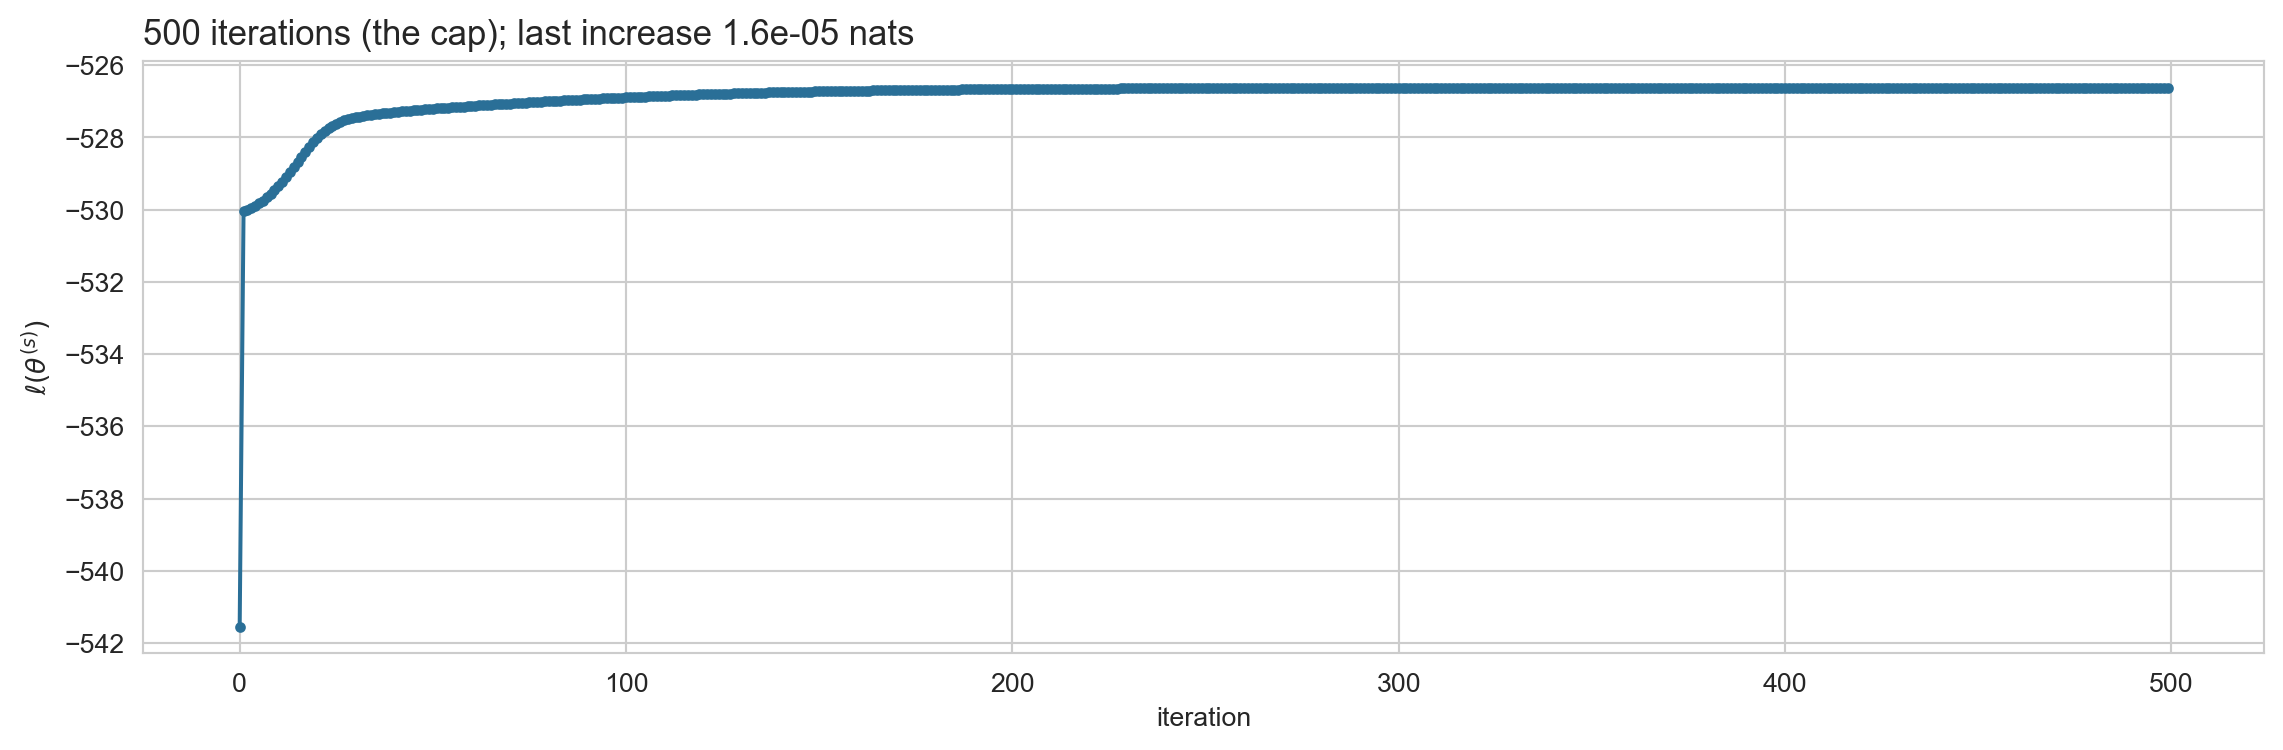
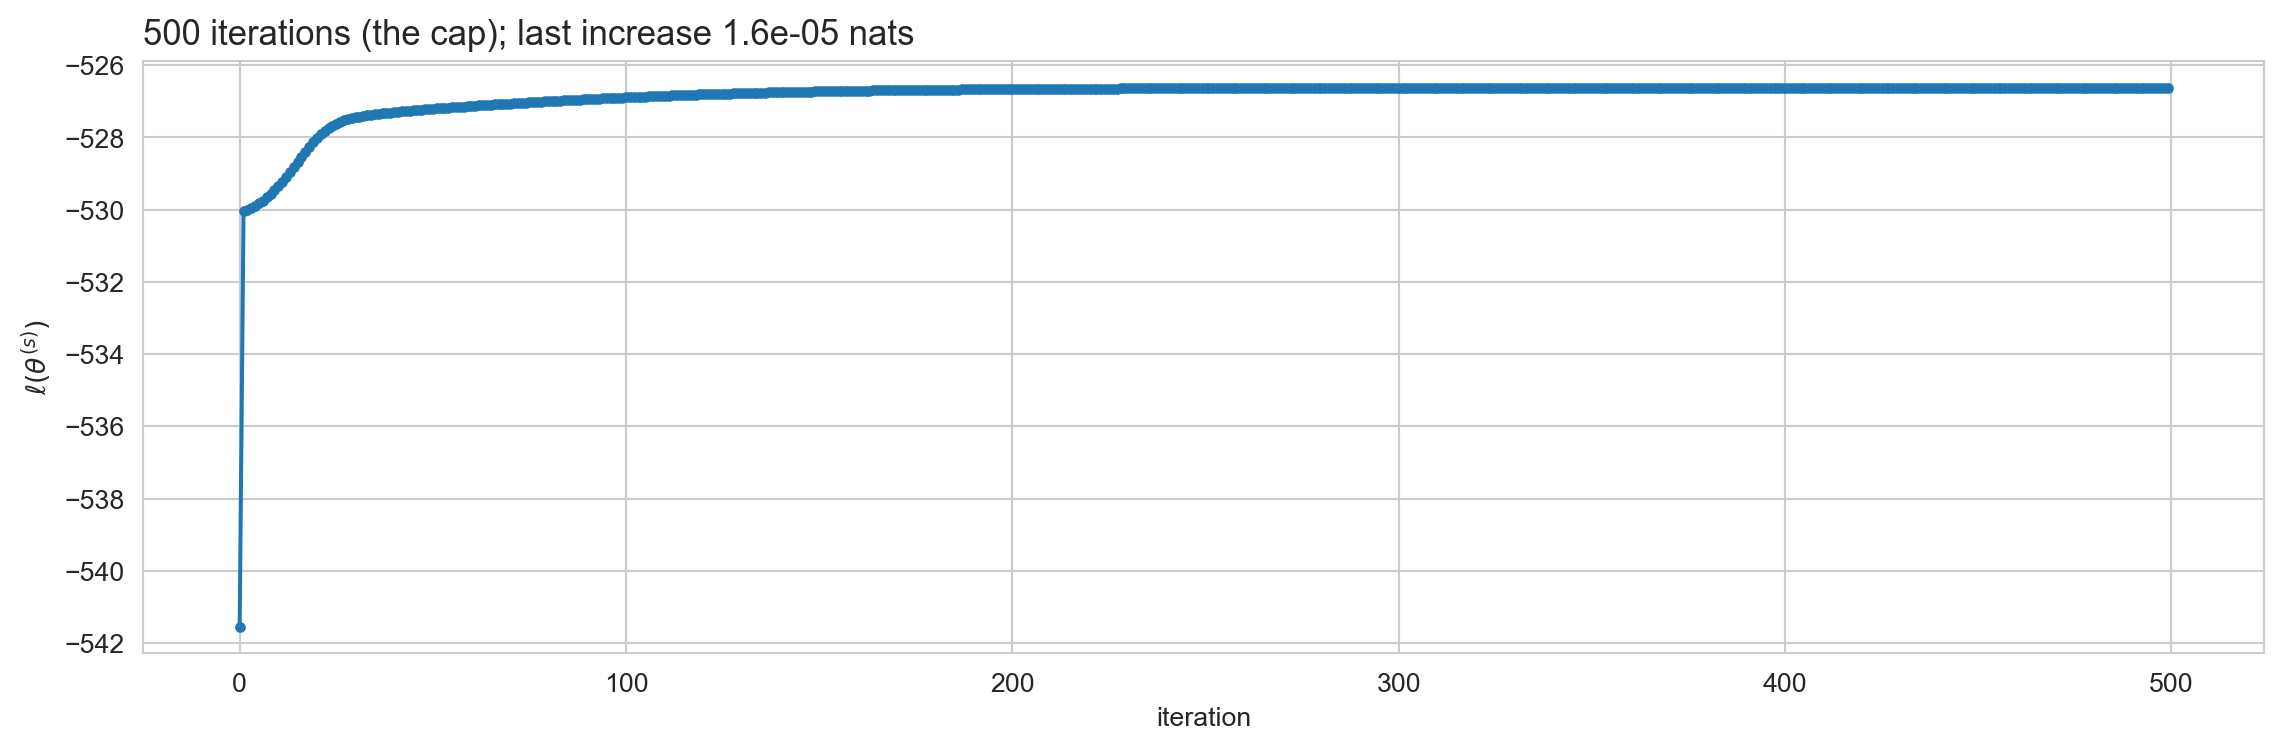
Revised week 4 part 2 slides.

Changed region(s): [[0.1244, 0.092, 0.9641, 0.2453], [0.0933, 0.2453, 0.1244, 0.3067]]

diff --git a/teaching/pml_fall26/4_baum_welch.html b/teaching/pml_fall26/4_baum_welch.html
@@ -354,7 +354,7 @@ p(y_{1:T}, z_t = k) = \underbrace{p(y_{1:t}, z_t=k)}_{\alpha_t(k)} \cdot \underb
 </section>
 <section id="mondays-code-which-you-will-need" class="slide level2">
 <h2>Monday’s code, which you will need</h2>
-<div id="f6dab100" class="cell" data-execution_count="2">
+<div id="95a9a279" class="cell" data-execution_count="2">
 <div class="sourceCode cell-code" id="cb1"><pre class="sourceCode numberSource python number-lines code-with-copy"><code class="sourceCode python"><span id="cb1-1"><a href=""></a><span class="kw">def</span> forward(logB, pi, A):</span>
 <span id="cb1-2"><a href=""></a>    T, K <span class="op">=</span> logB.shape</span>
 <span id="cb1-3"><a href=""></a>    B <span class="op">=</span> np.exp(logB)</span>
@@ -393,7 +393,7 @@ p(y_{1:T}, z_t = k) = \underbrace{p(y_{1:t}, z_t=k)}_{\alpha_t(k)} \cdot \underb
 <li><span class="math inline">\(a_{LL}\)</span>: the probability that the dealer keeps the loaded die.</li>
 </ul>
 </div>
-<div id="f400be67" class="cell" data-execution_count="3">
+<div id="ec788758" class="cell" data-execution_count="3">
 <div class="sourceCode cell-code" id="cb2"><pre class="sourceCode numberSource python number-lines code-with-copy"><code class="sourceCode python"><span id="cb2-1"><a href=""></a><span class="kw">def</span> make_casino(p_six, stay_fair, stay_loaded):</span>
 <span id="cb2-2"><a href=""></a>    pi <span class="op">=</span> np.array([<span class="fl">0.5</span>, <span class="fl">0.5</span>])</span>
 <span id="cb2-3"><a href=""></a>    A <span class="op">=</span> np.array([[stay_fair, <span class="dv">1</span> <span class="op">-</span> stay_fair],</span>
@@ -419,7 +419,7 @@ B =
 </section>
 <section id="simulate-it" class="slide level2">
 <h2>Simulate it</h2>
-<div id="cb63facd" class="cell" data-execution_count="4">
+<div id="7961d9fb" class="cell" data-execution_count="4">
 <div class="sourceCode cell-code" id="cb4"><pre class="sourceCode numberSource python number-lines code-with-copy"><code class="sourceCode python"><span id="cb4-1"><a href=""></a><span class="kw">def</span> simulate_casino(T, pi, A, B, seed):</span>
 <span id="cb4-2"><a href=""></a>    rng <span class="op">=</span> np.random.default_rng(seed)</span>
 <span id="cb4-3"><a href=""></a>    z, y <span class="op">=</span> np.zeros(T, dtype<span class="op">=</span><span class="bu">int</span>), np.zeros(T, dtype<span class="op">=</span><span class="bu">int</span>)</span>
@@ -451,7 +451,7 @@ die   : L...........LL........................................LLLLLLLLL...LLLL
 <li>Wrap it in a function of <code>(y, pi, A, B)</code>. You will call it many times today.</li>
 </ul>
 </div>
-<div id="11b2c054" class="cell" data-execution_count="5">
+<div id="49f12192" class="cell" data-execution_count="5">
 <div class="cell-output cell-output-stdout">
 <pre><code>my casino, my rolls :  -530.56</code></pre>
 </div>
@@ -468,7 +468,7 @@ die   : L...........LL........................................LLLLLLLLL...LLLL
 <li>Two routes. Write down the closed form, or notice that this is a one-state HMM and feed <code>forward</code> a <span class="math inline">\(1 \times 1\)</span> transition matrix. They must agree.</li>
 </ul>
 </div>
-<div id="5b593a49" class="cell" data-execution_count="6">
+<div id="dae25c81" class="cell" data-execution_count="6">
 <div class="cell-output cell-output-stdout">
 <pre><code>one fair die :  -537.53
 my casino    :  -530.56
@@ -481,7 +481,7 @@ difference   :     6.96 nats, or 0.023 per roll</code></pre>
 </section>
 <section id="how-well-did-yours-hide" class="slide level2">
 <h2>How well did yours hide?</h2>
-<div id="5c4282a7" class="cell" data-execution_count="7">
+<div id="67dd2ad2" class="cell" data-execution_count="7">
 <details class="code-fold">
 <summary>Code</summary>
 <div class="sourceCode cell-code" id="cb8"><pre class="sourceCode numberSource python number-lines code-with-copy"><code class="sourceCode python"><span id="cb8-1"><a href=""></a>rows <span class="op">=</span> []</span>
@@ -755,7 +755,7 @@ B_{km} = \frac{\sum_t \gamma_t(k) \, 1[y_t = m]}{\bar{n}_k}
 </section>
 <section id="the-code-you-are-given" class="slide level2">
 <h2>The code you are given</h2>
-<div id="da40ecdc" class="cell" data-execution_count="8">
+<div id="061f2904" class="cell" data-execution_count="8">
 <div class="sourceCode cell-code" id="cb9"><pre class="sourceCode numberSource python number-lines code-with-copy"><code class="sourceCode python"><span id="cb9-1"><a href=""></a><span class="kw">class</span> Categorical:</span>
 <span id="cb9-2"><a href=""></a>    <span class="co">"""y_t | z_t = k ~ Categorical(B[k, :]) on the symbols 1, ..., M."""</span></span>
 <span id="cb9-3"><a href=""></a>    <span class="kw">def</span> <span class="fu">__init__</span>(<span class="va">self</span>, M):</span>
@@ -795,19 +795,22 @@ B_{km} = \frac{\sum_t \gamma_t(k) \, 1[y_t = m]}{\bar{n}_k}
 </section>
 <section id="watch-one-run" class="slide level2">
 <h2>Watch one run</h2>
-<div id="f2adf0fc" class="cell" data-execution_count="9">
+<div id="6b02674d" class="cell" data-execution_count="9">
 <details class="code-fold">
 <summary>Code</summary>
-<div class="sourceCode cell-code" id="cb10"><pre class="sourceCode numberSource python number-lines code-with-copy"><code class="sourceCode python"><span id="cb10-1"><a href=""></a>fit0 <span class="op">=</span> baum_welch(y_cas, <span class="dv">2</span>, Categorical(<span class="dv">6</span>), seed<span class="op">=</span><span class="dv">0</span>)</span>
-<span id="cb10-2"><a href=""></a></span>
-<span id="cb10-3"><a href=""></a>fig, ax <span class="op">=</span> plt.subplots(figsize<span class="op">=</span>(<span class="dv">12</span>, <span class="dv">4</span>))</span>
-<span id="cb10-4"><a href=""></a>ax.plot(fit0[<span class="st">"trace"</span>], marker<span class="op">=</span><span class="st">"o"</span>, ms<span class="op">=</span><span class="dv">3</span>, color<span class="op">=</span>M1)</span>
-<span id="cb10-5"><a href=""></a>ax.set_xlabel(<span class="st">"iteration"</span>)<span class="op">;</span> ax.set_ylabel(<span class="vs">r"$\ell(\theta^{(s)})$"</span>)</span>
-<span id="cb10-6"><a href=""></a>ax.set_title(<span class="ss">f"</span><span class="sc">{</span>fit0[<span class="st">'iters'</span>]<span class="sc">}</span><span class="ss"> iterations (the cap); last increase </span><span class="sc">{</span>np<span class="sc">.</span>diff(fit0[<span class="st">'trace'</span>])[<span class="op">-</span><span class="dv">1</span>]<span class="sc">:.1e}</span><span class="ss"> nats"</span>, loc<span class="op">=</span><span class="st">"left"</span>, fontsize<span class="op">=</span><span class="dv">13</span>)</span>
-<span id="cb10-7"><a href=""></a>plt.tight_layout()<span class="op">;</span> plt.show()</span>
-<span id="cb10-8"><a href=""></a></span>
-<span id="cb10-9"><a href=""></a><span class="bu">print</span>(<span class="ss">f"monotone: </span><span class="sc">{</span>np<span class="sc">.</span><span class="bu">all</span>(np.diff(fit0[<span class="st">'trace'</span>]) <span class="op">&gt;=</span> <span class="op">-</span><span class="fl">1e-9</span>)<span class="sc">}</span><span class="ss">"</span>)</span>
-<span id="cb10-10"><a href=""></a><span class="bu">print</span>(<span class="ss">f"final log likelihood </span><span class="sc">{</span>fit0[<span class="st">'ll'</span>]<span class="sc">:.2f}</span><span class="ss">, versus </span><span class="sc">{</span>forward_backward(np.log(B_cas[:, y_cas<span class="op">-</span><span class="dv">1</span>].T), pi_cas, A_cas)[<span class="dv">2</span>]<span class="sc">:.2f}</span><span class="ss"> at the true parameters"</span>)</span></code><button title="Copy to Clipboard" class="code-copy-button"><i class="bi"></i></button></pre></div>
+<div class="sourceCode cell-code" id="cb10"><pre class="sourceCode numberSource python number-lines code-with-copy"><code class="sourceCode python"><span id="cb10-1"><a href=""></a><span class="co"># Uncomment below to import the plotting library.</span></span>
+<span id="cb10-2"><a href=""></a><span class="co">#import matplotlib.pyplot as plt</span></span>
+<span id="cb10-3"><a href=""></a></span>
+<span id="cb10-4"><a href=""></a>fit0 <span class="op">=</span> baum_welch(y_cas, <span class="dv">2</span>, Categorical(<span class="dv">6</span>), seed<span class="op">=</span><span class="dv">0</span>)</span>
+<span id="cb10-5"><a href=""></a></span>
+<span id="cb10-6"><a href=""></a>fig, ax <span class="op">=</span> plt.subplots(figsize<span class="op">=</span>(<span class="dv">12</span>, <span class="dv">4</span>))</span>
+<span id="cb10-7"><a href=""></a>ax.plot(fit0[<span class="st">"trace"</span>], marker<span class="op">=</span><span class="st">"o"</span>, ms<span class="op">=</span><span class="dv">3</span>)</span>
+<span id="cb10-8"><a href=""></a>ax.set_xlabel(<span class="st">"iteration"</span>)<span class="op">;</span> ax.set_ylabel(<span class="vs">r"$\ell(\theta^{(s)})$"</span>)</span>
+<span id="cb10-9"><a href=""></a>ax.set_title(<span class="ss">f"</span><span class="sc">{</span>fit0[<span class="st">'iters'</span>]<span class="sc">}</span><span class="ss"> iterations (the cap); last increase </span><span class="sc">{</span>np<span class="sc">.</span>diff(fit0[<span class="st">'trace'</span>])[<span class="op">-</span><span class="dv">1</span>]<span class="sc">:.1e}</span><span class="ss"> nats"</span>, loc<span class="op">=</span><span class="st">"left"</span>, fontsize<span class="op">=</span><span class="dv">13</span>)</span>
+<span id="cb10-10"><a href=""></a>plt.tight_layout()<span class="op">;</span> plt.show()</span>
+<span id="cb10-11"><a href=""></a></span>
+<span id="cb10-12"><a href=""></a><span class="bu">print</span>(<span class="ss">f"monotone: </span><span class="sc">{</span>np<span class="sc">.</span><span class="bu">all</span>(np.diff(fit0[<span class="st">'trace'</span>]) <span class="op">&gt;=</span> <span class="op">-</span><span class="fl">1e-9</span>)<span class="sc">}</span><span class="ss">"</span>)</span>
+<span id="cb10-13"><a href=""></a><span class="bu">print</span>(<span class="ss">f"final log likelihood </span><span class="sc">{</span>fit0[<span class="st">'ll'</span>]<span class="sc">:.2f}</span><span class="ss">, versus </span><span class="sc">{</span>forward_backward(np.log(B_cas[:, y_cas<span class="op">-</span><span class="dv">1</span>].T), pi_cas, A_cas)[<span class="dv">2</span>]<span class="sc">:.2f}</span><span class="ss"> at the true parameters"</span>)</span></code><button title="Copy to Clipboard" class="code-copy-button"><i class="bi"></i></button></pre></div>
 </details>
 <div class="cell-output cell-output-display">
 <div>
@@ -827,7 +830,7 @@ final log likelihood -526.62, versus -530.56 at the true parameters</code></pre>
 </section>
 <section id="ten-restarts-on-my-rolls" class="slide level2">
 <h2>Ten restarts on my rolls</h2>
-<div id="226490b4" class="cell" data-execution_count="10">
+<div id="529a822f" class="cell" data-execution_count="10">
 <details class="code-fold">
 <summary>Code</summary>
 <div class="sourceCode cell-code" id="cb12"><pre class="sourceCode numberSource python number-lines code-with-copy"><code class="sourceCode python"><span id="cb12-1"><a href=""></a>fits_cas <span class="op">=</span> [baum_welch(y_cas, <span class="dv">2</span>, Categorical(<span class="dv">6</span>), seed<span class="op">=</span>s) <span class="cf">for</span> s <span class="kw">in</span> <span class="bu">range</span>(<span class="dv">10</span>)]</span>
@@ -968,7 +971,7 @@ final log likelihood -526.62, versus -530.56 at the true parameters</code></pre>
 </section>
 <section id="exercise-did-it-recover-your-values" class="slide level2">
 <h2>Exercise: did it recover your values?</h2>
-<div id="4ee8f90a" class="cell" data-execution_count="11">
+<div id="f2631001" class="cell" data-execution_count="11">
 <details class="code-fold">
 <summary>Code</summary>
 <div class="sourceCode cell-code" id="cb13"><pre class="sourceCode numberSource python number-lines code-with-copy"><code class="sourceCode python"><span id="cb13-1"><a href=""></a>best_cas <span class="op">=</span> <span class="bu">max</span>(fits_cas, key<span class="op">=</span><span class="kw">lambda</span> f: f[<span class="st">"ll"</span>])</span>
@@ -1011,7 +1014,7 @@ agreement with the true states: 56.7%</code></pre>
 \mu_k = \frac{\sum_t \gamma_t(k) \, y_t}{\bar{n}_k}, \qquad
 \sigma_k^2 = \frac{\sum_t \gamma_t(k) \, (y_t - \mu_k)^2}{\bar{n}_k}.
 \]</span></p>
-<div id="b855d8be" class="cell" data-execution_count="12">
+<div id="1068a43e" class="cell" data-execution_count="12">
 <div class="sourceCode cell-code" id="cb15"><pre class="sourceCode numberSource python number-lines code-with-copy"><code class="sourceCode python"><span id="cb15-1"><a href=""></a><span class="kw">class</span> Gaussian:</span>
 <span id="cb15-2"><a href=""></a>    <span class="co">"""y_t | z_t = k ~ Normal(mu_k, sd_k^2)."""</span></span>
 <span id="cb15-3"><a href=""></a>    <span class="kw">def</span> init(<span class="va">self</span>, y, K, rng):</span>
@@ -1027,7 +1030,7 @@ agreement with the true states: 56.7%</code></pre>
 </section>
 <section id="the-fit" class="slide level2">
 <h2>The fit</h2>
-<div id="05392af8" class="cell" data-execution_count="13">
+<div id="516c018a" class="cell" data-execution_count="13">
 <details class="code-fold">
 <summary>Code</summary>
 <div class="sourceCode cell-code" id="cb16"><pre class="sourceCode numberSource python number-lines code-with-copy"><code class="sourceCode python"><span id="cb16-1"><a href=""></a>fits_of <span class="op">=</span> [baum_welch(dur, <span class="dv">2</span>, Gaussian(), seed<span class="op">=</span>s) <span class="cf">for</span> s <span class="kw">in</span> <span class="bu">range</span>(<span class="dv">10</span>)]</span>
@@ -1051,7 +1054,7 @@ learned transition matrix (short, long):
 </div>
 <div class="all-at-once">
 <p>Compare with the table we built on Monday <strong>from the labels</strong>:</p>
-<div id="03479961" class="cell" data-execution_count="14">
+<div id="6c0fbfac" class="cell" data-execution_count="14">
 <div class="cell-output cell-output-display cell-output-markdown" data-execution_count="14">
 <table class="caption-top">
 <thead>
@@ -1082,7 +1085,7 @@ learned transition matrix (short, long):
 </section>
 <section id="was-the-ordering-worth-it" class="slide level2">
 <h2>Was the ordering worth it?</h2>
-<div id="82c07ea2" class="cell" data-execution_count="15">
+<div id="3b0bc94c" class="cell" data-execution_count="15">
 <div class="cell-output cell-output-display cell-output-markdown" data-execution_count="15">
 <table class="caption-top">
 <thead>
@@ -1117,7 +1120,7 @@ learned transition matrix (short, long):
 </section>
 <section id="the-learned-dynamics-unrolled" class="slide level2">
 <h2>The learned dynamics, unrolled</h2>
-<div id="033639b4" class="cell" data-execution_count="16">
+<div id="e9f5ac81" class="cell" data-execution_count="16">
 <details class="code-fold">
 <summary>Code</summary>
 <div class="sourceCode cell-code" id="cb18"><pre class="sourceCode numberSource python number-lines code-with-copy"><code class="sourceCode python"><span id="cb18-1"><a href=""></a>fig, ax <span class="op">=</span> plt.subplots(figsize<span class="op">=</span>(<span class="dv">13</span>, <span class="dv">4</span>))</span>
@@ -1148,7 +1151,7 @@ learned transition matrix (short, long):
 <section id="more-data" class="slide level2">
 <h2>More data</h2>
 <p>Simulate longer sequences from my casino and fit from a fixed, deliberately vague start: symmetric sticky <span class="math inline">\(A\)</span>, one fair die, one die mildly favouring six.</p>
-<div id="3e539efc" class="cell" data-execution_count="17">
+<div id="fddb62e1" class="cell" data-execution_count="17">
 <details class="code-fold">
 <summary>Code</summary>
 <div class="sourceCode cell-code" id="cb19"><pre class="sourceCode numberSource python number-lines code-with-copy"><code class="sourceCode python"><span id="cb19-1"><a href=""></a>start <span class="op">=</span> (np.array([<span class="fl">0.5</span>, <span class="fl">0.5</span>]), np.array([[<span class="fl">0.8</span>, <span class="fl">0.2</span>], [<span class="fl">0.2</span>, <span class="fl">0.8</span>]]),</span>
@@ -1239,7 +1242,7 @@ A_{jk}^{(s+1)} = \frac{\bar{n}_{jk} + \alpha_{jk} - 1}{\sum_{k'} \big( \bar{n}_{
 </section>
 <section id="what-the-prior-did" class="slide level2">
 <h2>What the prior did</h2>
-<div id="2bdfa617" class="cell" data-execution_count="18">
+<div id="c636de0d" class="cell" data-execution_count="18">
 <details class="code-fold">
 <summary>Code</summary>
 <div class="sourceCode cell-code" id="cb20"><pre class="sourceCode numberSource python number-lines code-with-copy"><code class="sourceCode python"><span id="cb20-1"><a href=""></a>prior_A <span class="op">=</span> np.array([[<span class="dv">11</span>, <span class="dv">2</span>], [<span class="dv">2</span>, <span class="dv">11</span>]])         <span class="co"># ten pseudo-transitions of persistence per state</span></span>
@@ -1272,7 +1275,7 @@ agreement with the true states: 76.0%</code></pre>
 </section>
 <section id="why-the-casino-crawls-and-the-geyser-sprints" class="slide level2">
 <h2>Why the casino crawls and the geyser sprints</h2>
-<div id="f2a6035d" class="cell" data-execution_count="19">
+<div id="a3629d7a" class="cell" data-execution_count="19">
 <details class="code-fold">
 <summary>Code</summary>
 <div class="sourceCode cell-code" id="cb22"><pre class="sourceCode numberSource python number-lines code-with-copy"><code class="sourceCode python"><span id="cb22-1"><a href=""></a>f_geyser <span class="op">=</span> fits_of[<span class="dv">1</span>]</span>
